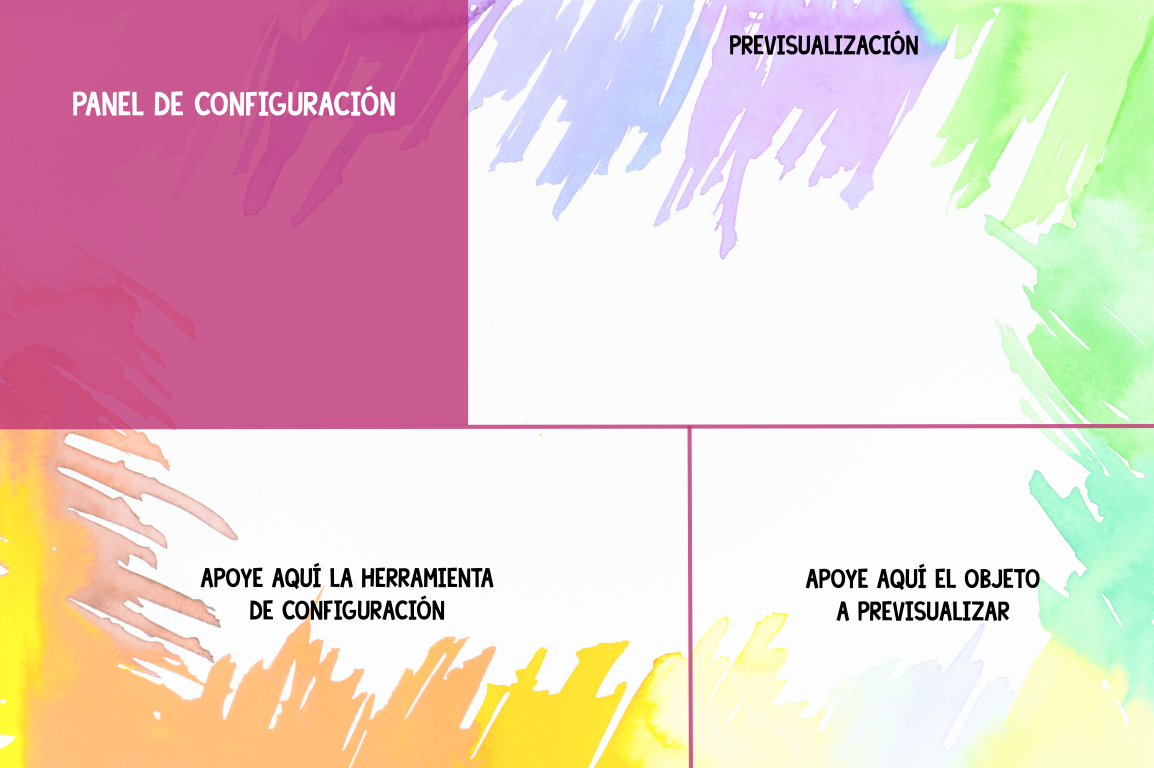
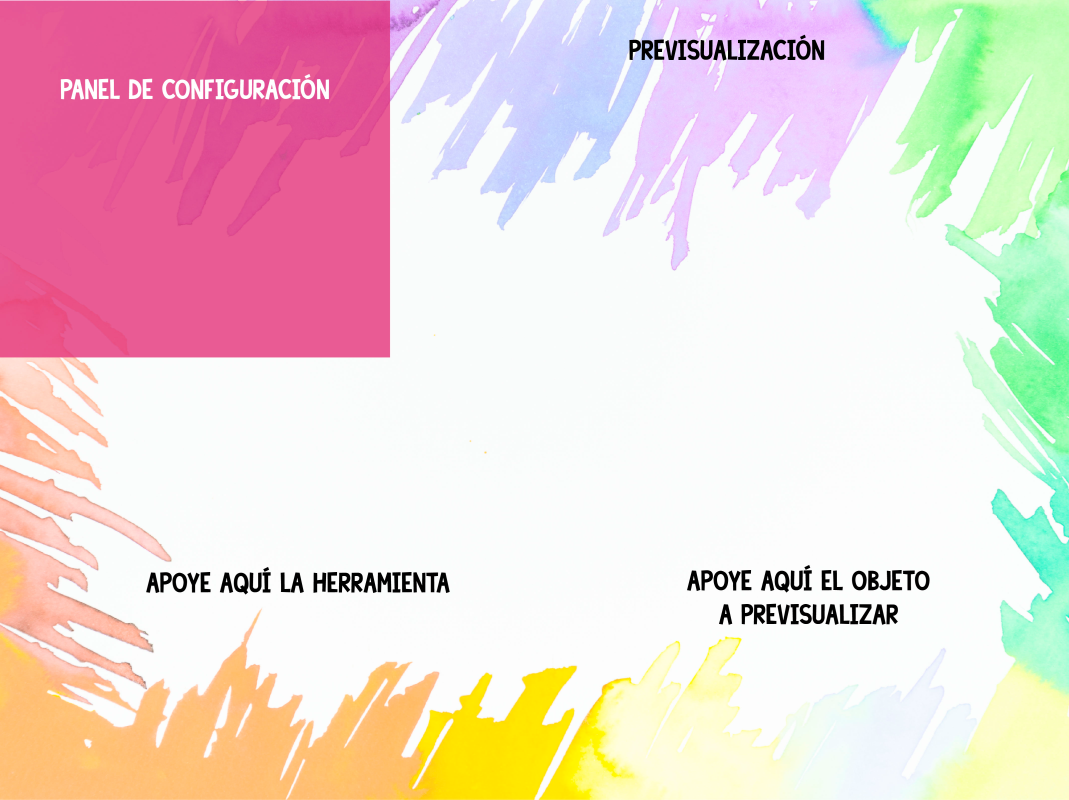
centrado de las reglas

diff --git a/Mesa 2019/src/Vista/Panel_configuracion.java b/Mesa 2019/src/Vista/Panel_configuracion.java
@@ -48,6 +48,7 @@ public class Panel_configuracion extends JPanel {
 		if((id>=108)&&(id<=116)){
 			num_pieza_actual=id-108;
 		}
+		
 		this.num_img_de_configuracion=id;
 		this.anguloGrados = anguloGrados;
 		repaint();
@@ -153,7 +154,8 @@ public class Panel_configuracion extends JPanel {
 			if(dibujar==false) {
 				miConfiguracion.setConfig_Regla(x,y);
 			}
-			g.drawImage(imgGral.getImagen_config()[nivelActRegla], miConfiguracion.getConfig_Regla()[1], miConfiguracion.getConfig_Regla()[2], (miConfiguracion.getConfig_Regla()[1]+600) , (miConfiguracion.getConfig_Regla()[2] + 300), 0, 0, 1024, 768, null);
+			g.drawImage(imgGral.getImagen_config()[nivelActRegla], (int)miConfiguracion.getConfig_Regla()[1]+90,(int) miConfiguracion.getConfig_Regla()[2]-40,(int) (miConfiguracion.getConfig_Regla()[1]+325) ,(int) (miConfiguracion.getConfig_Regla()[2] + 300), 0, 0, 1024, 768, null);
+
 			imgActual=0; //posicion de la regla en el vector
 		}
 		else {
@@ -161,7 +163,7 @@ public class Panel_configuracion extends JPanel {
 				if(dibujar==false) {
 					miConfiguracion.setConfig_Transparencia(x,y);
 				}
-				g.drawImage(imgGral.getImagen_config()[nivelActTrans], (int)miConfiguracion.getConfig_Transparencia()[1], (int)miConfiguracion.getConfig_Transparencia()[2], (int)(miConfiguracion.getConfig_Transparencia()[1]+600) , (int)(miConfiguracion.getConfig_Transparencia()[2] + 300), 0, 0, 1024, 768, null);
+				//g.drawImage(imgGral.getImagen_config()[nivelActTrans], (int)miConfiguracion.getConfig_Transparencia()[1]-250, (int)miConfiguracion.getConfig_Transparencia()[2]-250, (int)(miConfiguracion.getConfig_Transparencia()[1]) , (int)(miConfiguracion.getConfig_Transparencia()[2] + 50), 0, 0, 1024, 768, null);
 				imgActual=1; //posicion de la herramienta de transparencia en el vector
 			} 
 			else {
@@ -193,58 +195,64 @@ public class Panel_configuracion extends JPanel {
      
 		if((imgActual==0)&&(dibujar==true)){
 			//g.drawImage(imgGral.getImagen_config()[nivelActRegla], miConfiguracion.getConfig_Regla()[1], miConfiguracion.getConfig_Regla()[2], (miConfiguracion.getConfig_Regla()[1]+600) , (miConfiguracion.getConfig_Regla()[2] + 300), 0, 0, 1024, 768, null);
-			if(((x-miConfiguracion.getConfig_Regla()[1])<104)&&((x-miConfiguracion.getConfig_Regla()[1])>0)&&(((y-miConfiguracion.getConfig_Regla()[2])<64)&&(y-miConfiguracion.getConfig_Regla()[2])>0)){ //Hizo click en el nivel 1. 
+			if(((x-miConfiguracion.getConfig_Regla()[1])<110)&&((x-miConfiguracion.getConfig_Regla()[1])>0)&&(((y-miConfiguracion.getConfig_Regla()[2])<40)&&(y-miConfiguracion.getConfig_Regla()[2])>-15)){ //Hizo click en el nivel 1. 
 				nivelActRegla=3;
 				System.out.println("Nivel 1");
 				miConfiguracion.getConfig_Regla()[0]=50;
 
+
 			}else {
-				if(((x-miConfiguracion.getConfig_Regla()[1])<213)&&((x-miConfiguracion.getConfig_Regla()[1])>104)&&(((y-miConfiguracion.getConfig_Regla()[2])<64)&&(y-miConfiguracion.getConfig_Regla()[2])>0)){ //Hizo click en el nivel 1. 
+				if(((x-miConfiguracion.getConfig_Regla()[1])<150)&&((x-miConfiguracion.getConfig_Regla()[1])>100)&&(((y-miConfiguracion.getConfig_Regla()[2])<40)&&(y-miConfiguracion.getConfig_Regla()[2])>-15)){ //Hizo click en el nivel 1. 
 					nivelActRegla=1;
 					System.out.println("Nivel 2");
 					miConfiguracion.getConfig_Regla()[0]=100;
+
 				}else
-					if(((x-miConfiguracion.getConfig_Regla()[1])<322)&&((x-miConfiguracion.getConfig_Regla()[1])>213)&&(((y-miConfiguracion.getConfig_Regla()[2])<64)&&(y-miConfiguracion.getConfig_Regla()[2])>0)){ //Hizo click en el nivel 1. 
+					if(((x-miConfiguracion.getConfig_Regla()[1])<200)&&((x-miConfiguracion.getConfig_Regla()[1])>150)&&(((y-miConfiguracion.getConfig_Regla()[2])<40)&&(y-miConfiguracion.getConfig_Regla()[2])>-15)){ //Hizo click en el nivel 1. 
 						nivelActRegla=0;
 						System.out.println("Nivel 3");
 						miConfiguracion.getConfig_Regla()[0]=190;
+
 					}else
-						if(((x-miConfiguracion.getConfig_Regla()[1])<432)&&((x-miConfiguracion.getConfig_Regla()[1])>322)&&(((y-miConfiguracion.getConfig_Regla()[2])<64)&&(y-miConfiguracion.getConfig_Regla()[2])>0)){ //Hizo click en el nivel 1. 	
+						if(((x-miConfiguracion.getConfig_Regla()[1])<250)&&((x-miConfiguracion.getConfig_Regla()[1])>200)&&(((y-miConfiguracion.getConfig_Regla()[2])<40)&&(y-miConfiguracion.getConfig_Regla()[2])>-15)){ //Hizo click en el nivel 1. 	
 							nivelActRegla=2;
 							System.out.println("Nivel 4");
 							miConfiguracion.getConfig_Regla()[0]=250;
+
 					}else
-						if(((x-miConfiguracion.getConfig_Regla()[1])<542)&&((x-miConfiguracion.getConfig_Regla()[1])>432)&&(((y-miConfiguracion.getConfig_Regla()[2])<64)&&(y-miConfiguracion.getConfig_Regla()[2])>0)){ //Hizo click en el nivel 1. 
+						if(((x-miConfiguracion.getConfig_Regla()[1])<310)&&((x-miConfiguracion.getConfig_Regla()[1])>250)&&(((y-miConfiguracion.getConfig_Regla()[2])<40)&&(y-miConfiguracion.getConfig_Regla()[2])>-15)){ //Hizo click en el nivel 1. 
 							nivelActRegla=4;
 							System.out.println("Nivel 5");
 							miConfiguracion.getConfig_Regla()[0]=400;
+
 						}
 			
 					}
-		//	g.drawImage(imgGral.getImagen_config()[nivelActRegla], miConfiguracion.getConfig_Regla()[1], miConfiguracion.getConfig_Regla()[2], (miConfiguracion.getConfig_Regla()[1]+600) , (miConfiguracion.getConfig_Regla()[2] + 300), 0, 0, 1024, 768, null);
+		//FUNCIONANDO A MEDIASSSSSSSSSSSSSSSSSSSSSSSSSSSSSSSSSSSSSSSSSSS	
+			g.drawImage(imgGral.getImagen_config()[nivelActRegla], (int)miConfiguracion.getConfig_Regla()[1]+90,(int) miConfiguracion.getConfig_Regla()[2]-40,(int) (miConfiguracion.getConfig_Regla()[1]+325) ,(int) (miConfiguracion.getConfig_Regla()[2] + 300), 0, 0, 1024, 768, null);
 
 			//g2d.drawImage(imgGral.getImage(0), 0, 0, (0 + miConfiguracion.getConfig_Regla()[0]), (0 + miConfiguracion.getConfig_Regla()[0]), 0, 0, 744, 768, null);
 		}
 		else {
 			if((imgActual==1)&&(dibujar==true)){
 		       // g2d.drawImage(imgGral.getImage(0), 0, 0, (0 + miConfiguracion.getConfig_Regla()[0]), (0 + miConfiguracion.getConfig_Regla()[0]), 0, 0, 1024, 768, null);
-				g.drawImage(imgGral.getImagen_config()[nivelActTrans], (int)miConfiguracion.getConfig_Transparencia()[1], (int)miConfiguracion.getConfig_Transparencia()[2], (int)(miConfiguracion.getConfig_Transparencia()[1]+600) , (int)(miConfiguracion.getConfig_Transparencia()[2] + 300), 0, 0, 1024, 768, null);
+				//g.drawImage(imgGral.getImagen_config()[nivelActTrans], (int)miConfiguracion.getConfig_Transparencia()[1], (int)miConfiguracion.getConfig_Transparencia()[2], (int)(miConfiguracion.getConfig_Transparencia()[1]+600) , (int)(miConfiguracion.getConfig_Transparencia()[2] + 300), 0, 0, 1024, 768, null);
 
-		        if(((x-miConfiguracion.getConfig_Transparencia()[1])<104)&&((x-miConfiguracion.getConfig_Transparencia()[1])>0)&&(((y-miConfiguracion.getConfig_Transparencia()[2])<64)&&(y-miConfiguracion.getConfig_Transparencia()[2])>0)){ //Hizo click en el nivel 1. 
+		        if(((x-miConfiguracion.getConfig_Transparencia()[1])<120)&&((x-miConfiguracion.getConfig_Transparencia()[1])>0)&&(((y-miConfiguracion.getConfig_Transparencia()[2])<40)&&(y-miConfiguracion.getConfig_Transparencia()[2])>0)){ //Hizo click en el nivel 1. 
 					System.out.println("Nivel 1");
 					nivelActTrans=7;
 					miConfiguracion.getConfig_Transparencia()[0]=0.1f;
 
 
 				}else {
-					if(((x-miConfiguracion.getConfig_Transparencia()[1])>104)&&((x-miConfiguracion.getConfig_Transparencia()[1])<212)&&(((y-miConfiguracion.getConfig_Transparencia()[2])<64)&&(y-miConfiguracion.getConfig_Transparencia()[2])>0)) {
+					if(((x-miConfiguracion.getConfig_Transparencia()[1])>120)&&((x-miConfiguracion.getConfig_Transparencia()[1])<212)&&(((y-miConfiguracion.getConfig_Transparencia()[2])<40)&&(y-miConfiguracion.getConfig_Transparencia()[2])>0)) {
 						System.out.println("Nivel 2");
 						nivelActTrans=5;
 						miConfiguracion.getConfig_Transparencia()[0]=0.5f;
 
 
 					}else
-						if(((x-miConfiguracion.getConfig_Transparencia()[1])>212)&&((x-miConfiguracion.getConfig_Transparencia()[1])<321)&&(((y-miConfiguracion.getConfig_Transparencia()[2])<64)&&(y-miConfiguracion.getConfig_Transparencia()[2])>0)) {
+						if(((x-miConfiguracion.getConfig_Transparencia()[1])>212)&&((x-miConfiguracion.getConfig_Transparencia()[1])<321)&&(((y-miConfiguracion.getConfig_Transparencia()[2])<40)&&(y-miConfiguracion.getConfig_Transparencia()[2])>0)) {
 							System.out.println("Nivel 3");
 							nivelActTrans=6;
 							miConfiguracion.getConfig_Transparencia()[0]=1f;
@@ -252,7 +260,7 @@ public class Panel_configuracion extends JPanel {
 
 						}
 				}
-				g.drawImage(imgGral.getImagen_config()[nivelActTrans], (int)miConfiguracion.getConfig_Transparencia()[1], (int)miConfiguracion.getConfig_Transparencia()[2], (int)(miConfiguracion.getConfig_Transparencia()[1]+600) , (int)(miConfiguracion.getConfig_Transparencia()[2] + 300), 0, 0, 1024, 768, null);
+				g.drawImage(imgGral.getImagen_config()[nivelActTrans], (int)miConfiguracion.getConfig_Transparencia()[1]+75, (int)miConfiguracion.getConfig_Transparencia()[2]-40, (int)(miConfiguracion.getConfig_Transparencia()[1])+500 , (int)(miConfiguracion.getConfig_Transparencia()[2] + 300), 0, 0, 1024, 768, null);
 
 			}
 			else {

diff --git a/Mesa 2019/src/Vista/Mural.java b/Mesa 2019/src/Vista/Mural.java
@@ -11,6 +11,7 @@ import javax.swing.JPanel;
 import Modelo.Configuracion;
 import Modelo.Fiduciales;
 import javax.swing.JLabel;
+import javax.swing.JOptionPane;
 import javax.swing.ImageIcon;
 
 public class Mural extends JPanel {
@@ -76,6 +77,7 @@ public class Mural extends JPanel {
 			vaciarLista = true;
 			restaurarFondo();
 		}
+
 		
 		//this.x=(int) (x*744);
 		//this.y=(int) (y*768);
@@ -103,26 +105,34 @@ public class Mural extends JPanel {
 
 	
 	public void paintComponent(Graphics g) {
+		
 		if(!miConfiguracion.isSalioPanel()) {
 			super.paintComponent(g);
 			Graphics2D g2d = (Graphics2D)g; //Lo casteamos para poder usar "alphaComposite"
 			//CAMBIO DE COLOR DEL FONDO
 			restaurarFondo();
+			
 			if(num_img==-1) {
 				g2d.drawImage(null, x, y, null);
+				
 			}else{
+				
 				if(miConfiguracion.isMural_activado() && !miConfiguracion.isCambioConfig()) {
 					//ACA se resta 108 ------------------------------------------------------------
 					if((num_img!=99) && (num_img!=90)) {
 						if(lista.size()==300 && vaciarLista) {
+							System.out.println("no me rompi, aun");
 							lista.clear();
+							
 							float [] info_en_el_tiempo= {-2,this.x,this.y, (this.x + miConfiguracion.getConfig_Regla()[0]), (this.y + miConfiguracion.getConfig_Regla()[0]), 1, (float)this.anguloRadianes, miConfiguracion.getConfig_ColoresTexturas()[0]};
 							lista.add(info_en_el_tiempo);
+							
 							vaciarLista= false;
 						} else {
-							if(lista.size()!=300 && num_img<18 && num_img>=0) {
-								
-								float [] info_en_el_tiempo= {num_img,this.x,this.y, (this.x + miConfiguracion.getConfig_Regla()[0]), (this.y + miConfiguracion.getConfig_Regla()[0]), miConfiguracion.getConfig_Transparencia()[0], (float)this.anguloRadianes, miConfiguracion.getConfig_ColoresTexturas()[0]};
+							//if(lista.size()!=300 && num_img<18 && num_img>=0) {
+							if((lista.size()<300) && ((num_img<=116 && num_img>=108) || (num_img==150))) {
+								System.out.println(lista.size());
+								float [] info_en_el_tiempo= {num_img-108,this.x,this.y, (this.x + miConfiguracion.getConfig_Regla()[0]), (this.y + miConfiguracion.getConfig_Regla()[0]), miConfiguracion.getConfig_Transparencia()[0], (float)this.anguloRadianes, miConfiguracion.getConfig_ColoresTexturas()[0]};
 								lista.add(info_en_el_tiempo);
 							 }
 						} 
@@ -138,10 +148,20 @@ public class Mural extends JPanel {
 					while(listaIterada.hasNext()) {
 						
 						
-						info_en_el_tiempo=listaIterada.next();
+						try {
+							info_en_el_tiempo=listaIterada.next();
+						} catch (Exception e) {
+							// TODO Auto-generated catch block
+							e.printStackTrace();
+							if(listaIterada !=null ) {
+							JOptionPane.showConfirmDialog(null, info_en_el_tiempo.length);
+							}else {
+								JOptionPane.showConfirmDialog(null, "la lista esta vacia");
+							}
+						}
 						AlphaComposite alcom = AlphaComposite.getInstance(AlphaComposite.SRC_OVER,info_en_el_tiempo[5]);
 						g2d.setComposite(alcom);
-
+						
 						switch((int)info_en_el_tiempo[0]) {
 							//Para el case del lapiz utilizar 42--fIDUCIAL CHICOS 150FIDUCIAL para la mesa y 150 para el simulador.
 						  case 42:{ //lapiz
@@ -166,6 +186,7 @@ public class Mural extends JPanel {
 								  AffineTransform tx = AffineTransform.getRotateInstance(info_en_el_tiempo[6],(info_en_el_tiempo[1]),(info_en_el_tiempo[2]));
 								  g2d.setTransform(tx);
 								  //CENTRADO DE IMAGENES
+								 
 								  g2d.drawImage(img, (int)info_en_el_tiempo[1]-75, (int)info_en_el_tiempo[2]-75, (int)info_en_el_tiempo[3]-60, (int)info_en_el_tiempo[4]-60, 0, 0, 744, 768, null);
 								  //g2d.drawImage(img, (int)info_en_el_tiempo[1]-150, (int)info_en_el_tiempo[2]-150, (int)info_en_el_tiempo[3]-150, (int)info_en_el_tiempo[4]-150, 0, 0, 744, 768, null);
 								  //g2d.drawImage(img, (int)info_en_el_tiempo[1]-400, (int)info_en_el_tiempo[2]-400, (int)info_en_el_tiempo[3]-400, (int)info_en_el_tiempo[4]-400, 0, 0, 744, 768, null);

diff --git a/Mesa 2019/src/Controlador/Prueba.java b/Mesa 2019/src/Controlador/Prueba.java
@@ -33,10 +33,10 @@ public class Prueba  extends JFrame implements TuioListener, ActionListener {
 	private final JButton btnDesactivarPanel = new JButton("Desactivar Panel");
 
 	public static void main(String[] args) {   
-		TuioSimulator simulador = new TuioSimulator();
+		//TuioSimulator simulador = new TuioSimulator();
 		File archconfig = new File("config.xml");
 		String[] argv = { "-host", "127.0.0.1", "-port", "3333", "-config", archconfig.getAbsolutePath() };
-		simulador.main(argv);
+		//simulador.main(argv);
 		final TuioClient cliente = new TuioClient();
 		cliente.connect();
 		Prueba carga = new Prueba(cliente);
@@ -134,14 +134,14 @@ public class Prueba  extends JFrame implements TuioListener, ActionListener {
 	@Override
 	// Se llama cuando se detecta un nuevo objeto(puede ser un dedo o el marcador) en la mesa
 	public void addTuioCursor(TuioCursor tcur) {
-		if(panel_configuracion.isVisible()) {
+		/*if(panel_configuracion.isVisible()) {
 			//panel_configuracion.actualizar(666, tcur.getX(), tcur.getY());
 			panel_configuracion.dibujar_punto(tcur.getX(), tcur.getY());
 		}
 		else {
 			//el cursor tiene id = 0 siempre, pero mando 150 para que no se confunda con la mamushka
 			mural.actualizar(tcur.getX(), tcur.getY(), 150, 0,msj);
-		}
+		}*/
 	}
 
 

diff --git a/Mesa 2019/src/Modelo/Fiduciales.java b/Mesa 2019/src/Modelo/Fiduciales.java
@@ -5,7 +5,7 @@ public class Fiduciales {
 
 	public Fiduciales () {
 		//version para simular
-		
+		/*
 		idMarcador[0] = 0;   //Mamushka
 		idMarcador[1] = 1;   //Pelota
 		idMarcador[2] = 2;   //Caracol1
@@ -23,10 +23,10 @@ public class Fiduciales {
 		idMarcador[14] = 20; //abrir/cerrar panel
 		idMarcador[15] = 24; //reset
 		idMarcador[16] = 28; //guardar mural
-		
+		*/
 		//version para la mesa        ---->Poner -108 en linea 84 mural, vengo del futuro y ya no es la 84 ahre
 		                      //   ---->cambiar el case del lapiz a 42 para la mesa y 150 para simular*/
-		/*						// ---->cambiar linea 84 en la clase mural (por el 130)
+								// ---->cambiar linea 84 en la clase mural (por el 130)
 		idMarcador[0] = 108;   //Mamushka
 		idMarcador[1] = 109;   //Pelota
 		idMarcador[2] = 110;   //Caracol1
@@ -44,7 +44,7 @@ public class Fiduciales {
 		idMarcador[14] = 121;	//abrir/cerrar panel
 		idMarcador[15] = 198;	//reset
 		idMarcador[16] = 130; //guardar 
-		*/
+		
 		//Fiducial chicos
 		/*
 		idMarcador[0] = 0;   //Mamushka
